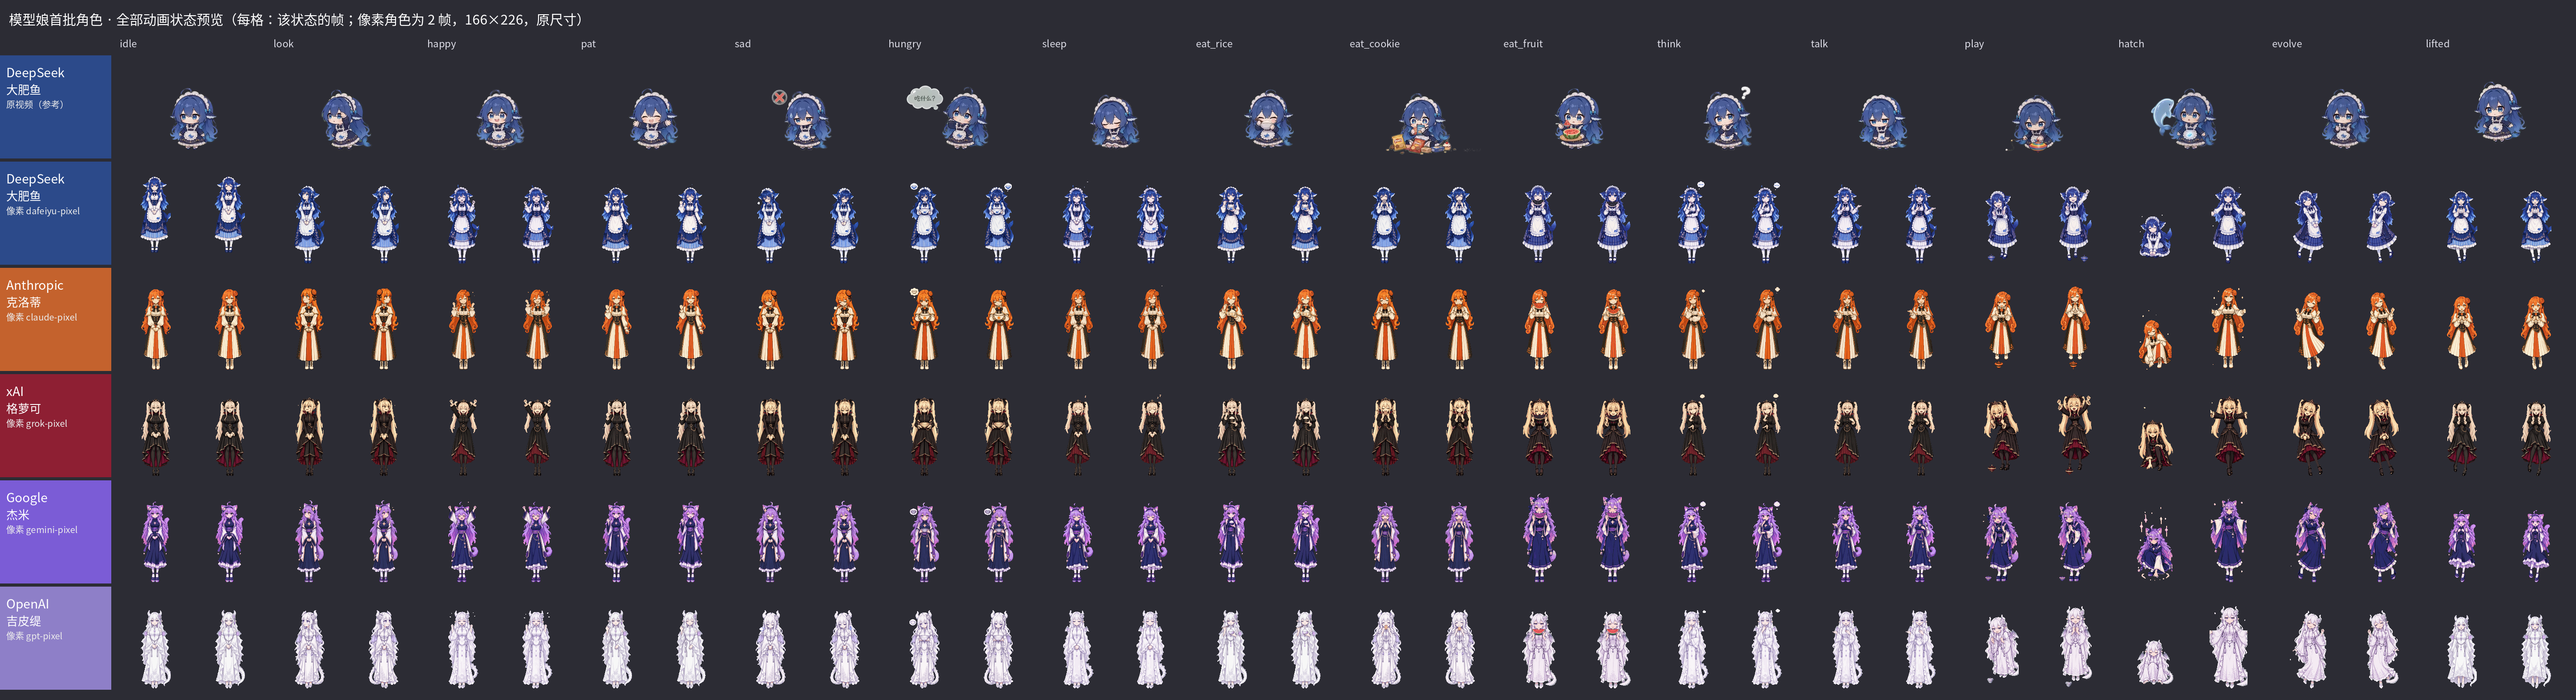
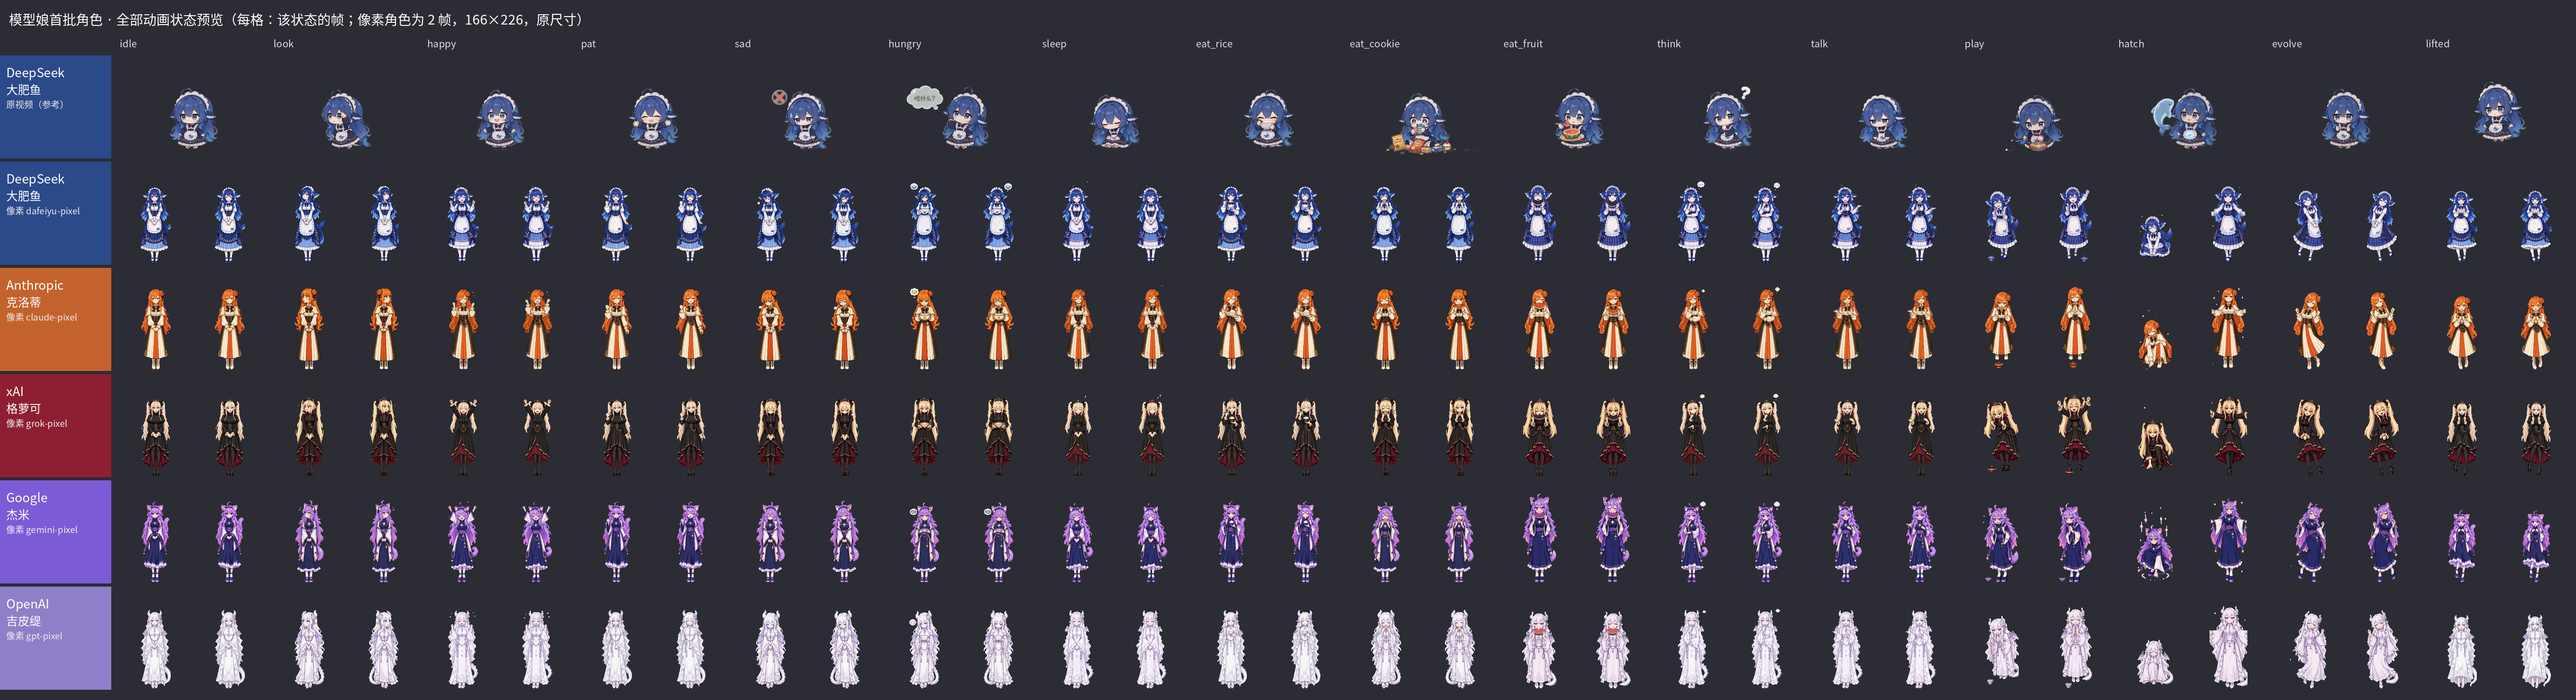
🐛 fix(art): every action stands on the floor of its cell, measured on the final pixels
A faint mark under the feet at full size still held 大肥鱼's idle 25 px above the
floor; actions are now shifted down after downscaling. All five packs rebuilt.

diff --git a/scripts/art/slice_sheet.py b/scripts/art/slice_sheet.py
@@ -133,6 +133,18 @@ for (c, fg), box in zip(cells, cell_box):
     full_rgb, full_a = Image.new('RGB', (out_w, out_h)), Image.new('L', (out_w, out_h), 0)
     full_rgb.paste(rgb, at); full_a.paste(a, at)
     frames.append((full_rgb, full_a))
+# measure the floor on the final pixels: specks that only existed at full size (a faint mark under the feet)
+# no longer hold an action above the bottom of its cell
+if not shared_box:
+    for g in range(0, len(frames), 2):
+        bottoms = [a.getbbox()[3] for _, a in frames[g:g + 2] if a.getbbox()]
+        dy = out_h - max(bottoms) if bottoms else 0
+        if dy > 0:
+            for k in range(g, min(g + 2, len(frames))):
+                rgb, a = frames[k]
+                r2, a2 = Image.new('RGB', (out_w, out_h)), Image.new('L', (out_w, out_h), 0)
+                r2.paste(rgb, (0, dy)); a2.paste(a, (0, dy))
+                frames[k] = (r2, a2)
 # one palette for the whole sheet keeps colours steady between frames (64: a 166 x 226 frame has room for
 # small accents such as gold trim and two-coloured eyes, which 40 colours merged away)
 strip = Image.new('RGB', (out_w * len(frames), out_h))
